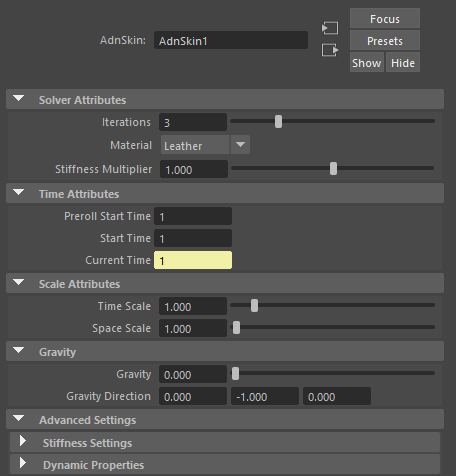
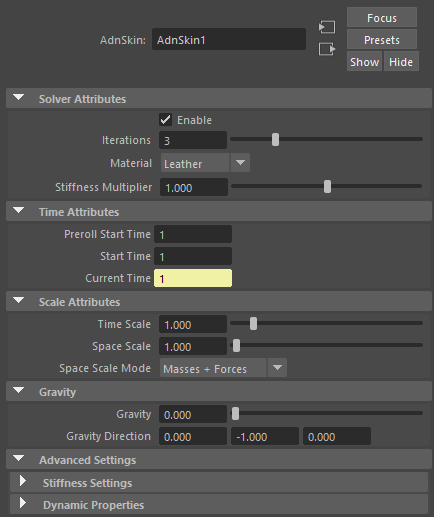
Completed modifying skin deformer documentation.  - Updated attribute editor screenshots.  - Added debugger screenshots.

Changed region(s): [[0.0, 0.0, 1.0, 1.0]]

diff --git a/docs/documentation/maya/1.0.0/skin.md b/docs/documentation/maya/1.0.0/skin.md
@@ -138,6 +138,12 @@ table th:nth-of-type(5) {
     - *Range*: \[1e^-3^, 100.0\] [^1]
     - *Description*: Sets the scaling factor applied to the masses and/or the forces.
 
+- <b class="attributes">Space Scale Mode</b>
+    - *Type*: Enum
+    - *Default Option*: Masses + Forces
+    - *Options*: Masses, Forces, Masses + Forces
+    - *Description*: Determines if the spatial scaling affects the masses, the forces, or both.
+
 #### Gravity
 - <b class="attributes">Gravity</b>
     - *Type*: Float
@@ -165,13 +171,19 @@ table th:nth-of-type(5) {
     - *Description*: Sets the custom stiffness value.
 
 #### Dynamic Properties
+- <b class="attributes">Global Mass Multiplier</b>
+    - *Type*: Float
+    - *Default Value*: 1.0
+    - *Range*: \[0.0, 10.0\] [^1]
+    - *Description*: Sets the scaling factor applied to the mass of every point.
+
 - <b class="attributes">Global Damping</b>
     - *Type*: Float
     - *Default Value*: 0.75
     - *Range*: \[0.0, 2.0\] [^1]
     - *Description*: Toggles the use of the Global Damping Attribute. If enabled, the system will attempt to retrieve the values from the source input at the given attribute name. If the attribute name is not found, then the numeric parameter will be used instead.
 
-- <b class="attributes">Inertia Damping</b>
+- <b class="attributes">Inertia Damper</b>
     - *Type*: Float
     - *Default Value*: 0.0
     - *Range*: \[0.0, 1.0\]
@@ -183,23 +195,35 @@ table th:nth-of-type(5) {
     - *Range*: \[0.0, 2.0\] [^1]
     - *Description*: Sets the scaling factor applied to the edge lengths at rest.
 
-- <b class="attributes">Stretching Resistance</b>
-    - *Type*: Float
-    - *Default Value*: 1.0
-    - *Range*: \[0.0, 1.0\]
-    - *Description*: Sets a uniform value for the stretching resistance of the edges. It is used if Stretching Resistance Attribute is not provided.
-
-- <b class="attributes">Compression Resistance</b>
-    - *Type*: Float
-    - *Default Value*: 1.0
-    - *Range*: \[0.0, 1.0\]
-    - *Description*: Sets a uniform value for the compression resistance of the edges. It is used if Compression Resistance Attribute is not provided.
-
 - <b class="attributes">Max Sliding Distance</b>
     - *Type*: Float
-    - *Default Value*: 0.0
+    - *Default Value*: 0.5
     - *Range*: \[0.0, 10.0\] [^1]
     - *Description*: Determines the size of the sliding area. It corresponds to the maximum distance to the closest point on the reference mesh computed on initialization. The higher this value is, the higher quality and the lower performance.
+
+- <b class="attributes">Compression Multiplier</b>
+    - *Type*: Float
+    - *Default Value*: 1.0
+    - *Range*: \[0.0, 2.0\] [^1]
+    - *Description*: Sets the scaling factor applied to the compression resistance of every point.
+
+- <b class="attributes">Stretching Multiplier</b>
+    - *Type*: Float
+    - *Default Value*: 1.0
+    - *Range*: \[0.0, 2.0\] [^1]
+    - *Description*: Sets the scaling factor applied to the stretching resistance of every point.
+
+- <b class="attributes">Attenuation Velocity factor</b>
+    - *Type*: Float
+    - *Default Value*: 1.0
+    - *Range*: \[0.0, 1.0\]
+    - *Description*: Sets the weight of the attenuation applied to the whole simulation driven by the Attenuation Matrix.
+
+- <b class="attributes">Sliding constraints mode</b>
+    - *Type*: Enum
+    - *Default Option*: Fast
+    - *Options*: Fast, Quality 
+    - *Description*: Defines the mode of execution for the sliding constraints: Quality is more accurate, recommended for final results; Fast provides higher performance, recommended for preview.
 
 #### Additional Properties
 
@@ -253,8 +277,8 @@ The elements that can be visualized with the debugger in the Skin deformer are:
 Enabling the debugger and selecting one of these constraints will draw lines from the influenced vertices in the simulated mesh to their corresponding reference vertices. 
 
 <figure markdown>
-  ![skin editor debug menu](../../../images/skin_debug_hard_constraint.png){ width="400" }
-  <figcaption>Figure 5: Hard Constraints debugger enabled. </figcaption>
+  ![skin editor debug menu](../../../images/skin_debug.png)
+  <figcaption>Figure 5: Debugger enabled displaying hard constraints, slide constraints and soft constraints with different configurations. </figcaption>
 </figure>
 
 The following paramenters can be modified to better customize the appereance of these lines:
